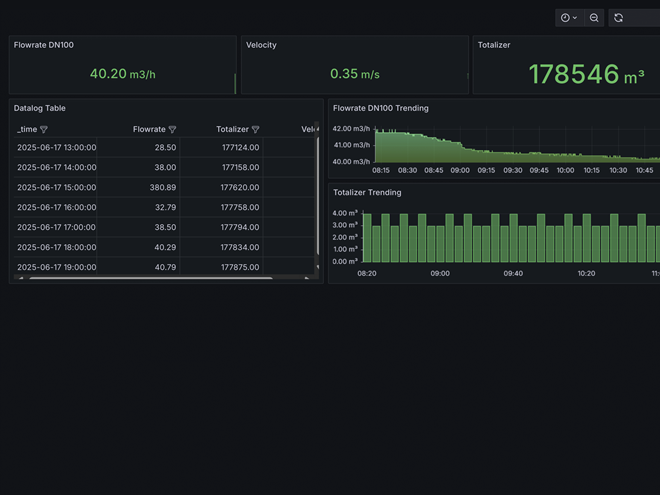
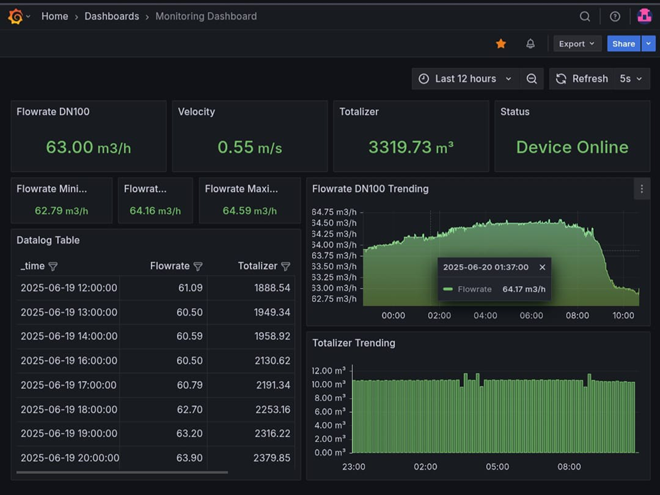
update

diff --git a/index.html b/index.html
@@ -1166,10 +1166,12 @@
                                         <div class="divider-custom-line"></div>
                                     </div>
 									
-									<p class="mb-4">Grafana Dashboard on VPS</p>
+									<p class="mb-4">Make and configurate Grafana Dashboard on VPS. Data (Flow Transmitter) from IoT Gateway with MQTT send to MQTT Broker on my VPS and NodeRED parsing before to InfluxDB and then visualize on Grafana.</p>
                                     <br/>
                                     <!-- Portfolio Modal - Image-->
                                     <img class="img-fluid rounded mb-5" src="assets/img/portfolio/portfolio16/16b.png" alt="..." />
+									<br/>
+									<img class="img-fluid rounded mb-5" src="assets/img/portfolio/portfolio16/16c.png" alt="..." />
 									<br/>
 									
                                     <!-- Portfolio Modal - Text-->
